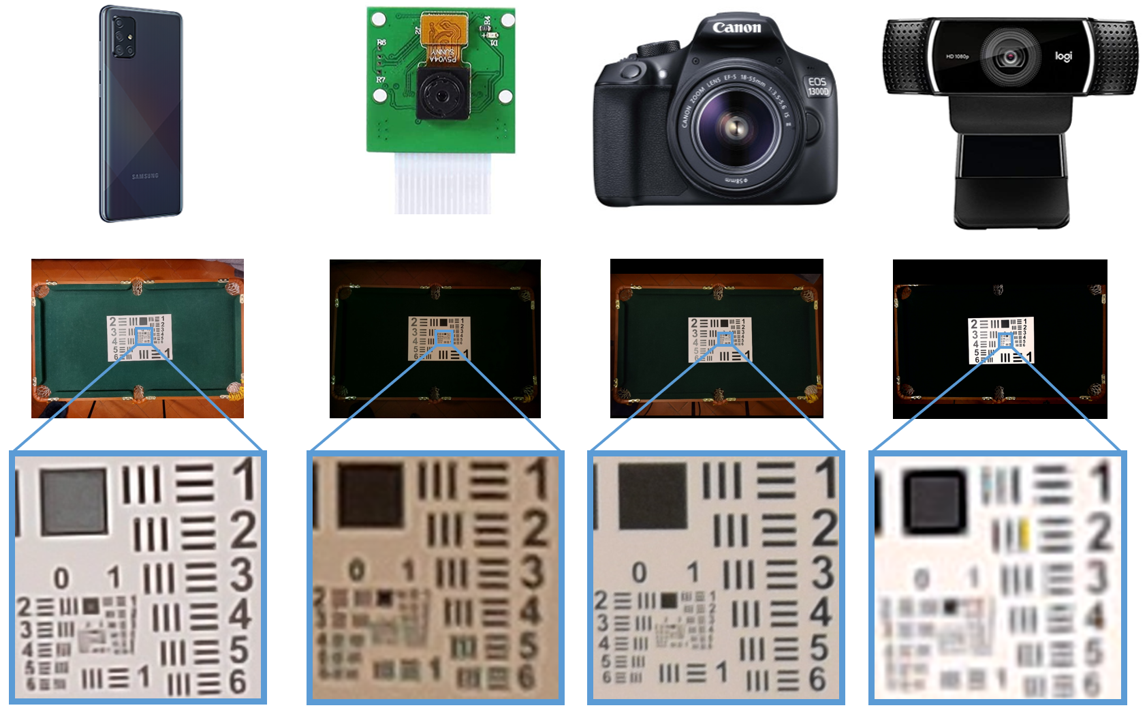
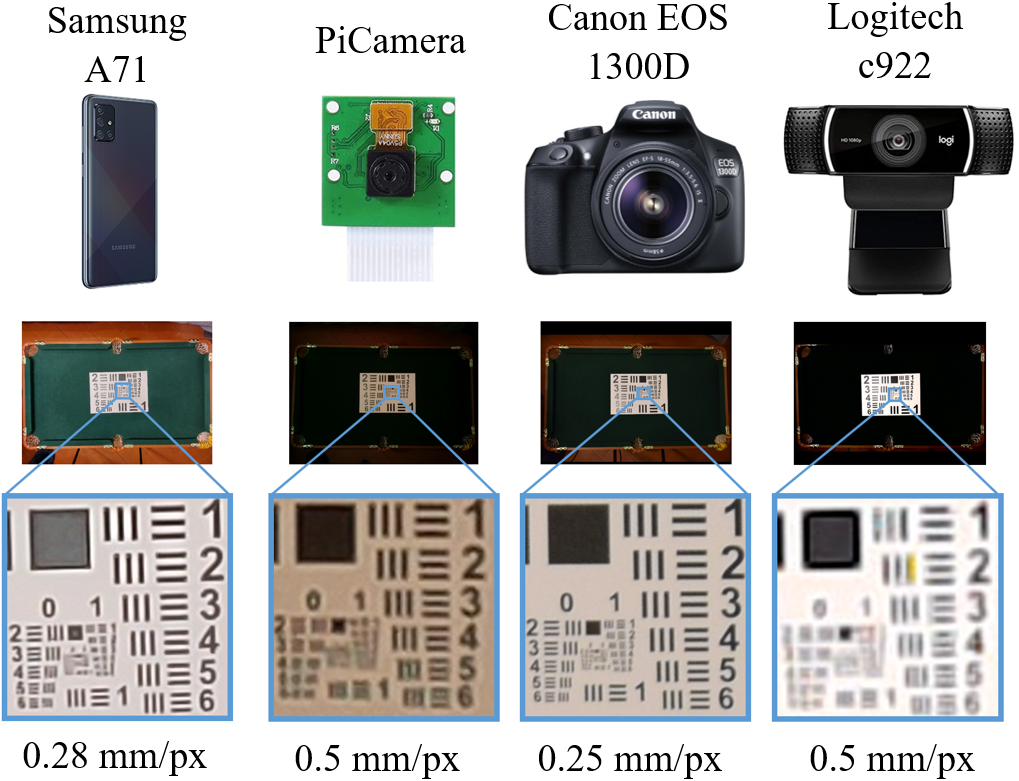
doc

diff --git a/README.md b/README.md
@@ -102,7 +102,39 @@ The hardware includes both the camera and its mounting support. The final setup 
 
 To select the right camera, I conducted a resolution test on four different cameras I had at home: a smartphone camera, a Raspberry Pi camera, a DSLR, and a webcam. Based on the results and ease of connectivity with a PC, the final selection was the DSLR camera:
 
-<img src="./figures/mm_per_pixel_2.png" alt="drawing" width="70%"/>
+
+<table>
+  <tr>
+    <th>Camera</th>
+    <td>Samsing A71</td>
+    <td>PiCamera</td>
+    <td>Canon EOS 1300D</td>
+    <td>Logitech c922</td>
+  </tr>
+
+  <tr>
+    <th>Resolution</th>
+    <td>0.28 mm/px</td>
+    <td>0.50 mm/px</td>
+    <td>0.25 mm/px</td>
+    <td>0.50 mm/px</td>
+  </tr>
+
+  <tr>
+    <th>USAF test</th>
+    <td><img src="./figures/mm_per_pixel_1.png" alt="drawing" width="90%"/>
+</td>
+    <td><img src="./figures/mm_per_pixel_2.png" alt="drawing" width="90%"/>
+</td>
+    <td><img src="./figures/mm_per_pixel_3.png" alt="drawing" width="100%"/>
+</td>
+    <td><img src="./figures/mm_per_pixel_4.png" alt="drawing" width="90%"/>
+</td>
+  </tr>
+
+</table>
+
+
 
 ### Software
 
@@ -125,7 +157,11 @@ To select the right camera, I conducted a resolution test on four different came
 
 - **Camera calibration**: Computes the intrinsic camera parameters using images of a checkerborad pattern.
 
-<img src="./figures/camera_calibration.png" alt="drawing" width="100%"/>
+
+| Image 1 | Image 2 | Image 3 | Image 4 |
+|:-----:|:-----:|:-----------------:|:-----------------:|
+| <img src="./figures/camera_calibration_1.png" alt="2 DOF" width="100%"/> | <img src="./figures/camera_calibration_2.png" alt="2 DOF" width="100%"/> | <img src="./figures/camera_calibration_3.png" alt="2 DOF" width="100%"/> | [...]
+
 
 #### YOLOv8
 
@@ -157,7 +193,7 @@ After comparing the results of both methods against a Ground Truth established b
 | YOLO    | 3.02     | 3.17     |
 | Classic    | 2.43     | 1.81     |
 
-If the 68–95–99.7 rule is applied, from these results it can be deduced that in 95% of the cases an error below 6.3 and 3.6 pixels should be expected for the YOLO and classic algorithms, respectively. 
+If the 68–95–99.7 rule is applied, from these results it can be deduced that in 95% of the cases an error below 6.3 and 3.6 pixels should be expected for the YOLO and classic algorithms, respectively. Considering a resolution of 0.25 mm/px, this is 1.5 and 0.9 mm, respectively.
 
 ## Shot selection 
 
@@ -201,34 +237,61 @@ $$
 
 ## Actuation system: 
 
-Pool robot subsystems
+The pool robot is divided in 2 subsystems:
 
-- Cue ball impact: linear actuator
+- **Cue ball impact**: linear actuator
    - Solenoid
    - Servomotor
-- Cue positioning: cartesian robot
+- **Cue positioning**: cartesian robot
    - Stepper motors
    - V-slot 2020 and wheels
    - Tooth belt and timing pulleys 
+
+Block diagram of the actuation system showing selected components and
+interactions:
 
 <img src="./figures/robot_solution.png" alt="drawing" width="90%"/>
 
 - **Homing position**: it's necessary to have a reference position known as home since the stepper motors do not have a way to know their position. This position has been obtained using two limit switches activated by the robot's own moving parts:
 
-<img src="./figures/homing_position.png" alt="drawing" width="70%"/>
+<table>
+  <tr>
+    <th>SolidWorks</th>
+    <th>Constructed</th>
+  </tr>
+  <tr>
+    <td rowspan="2"><img src="./figures/homing_position_1.png" alt="SolidWorks" width="100%"/>
+</td>
+    <td><img src="./figures/homing_position_2.png" alt="Constructed" width="100%"/></td>
+  </tr>
+  <tr>
+    <td><img src="./figures/homing_position_3.png" alt="Constructed" width="100%"/></td>
+  </tr>
+</table>
+
 
 - **Timing belt and pulleys**: the belt has been designed with an H configuration which has allowed the motors to be stationary
 
-<img src="./figures/timing_belt_and_pulleys.png" alt="drawing" width="60%"/>
+<table>
+  <tr>
+    <th>Concept design H-bot</th>
+    <th>Constructed</th>
+  </tr>
+  <tr>
+    <td rowspan="2"><img src="./figures/timing_belt_and_pulleys_1.png" alt="SolidWorks" width="100%"/>
+</td>
+    <td><img src="./figures/timing_belt_and_pulleys_2.png" alt="Constructed" width="100%"/></td>
+  </tr>
+  <tr>
+    <td><img src="./figures/timing_belt_and_pulleys_3.png" alt="Constructed" width="100%"/></td>
+  </tr>
+</table>
 
-- **Belt tensioning**: a set of pulleys was assembled and the belt was tensioned with zip ties
+- **Belt tensioning and stepper sizing**: a set of pulleys was assembled and the belt was tensioned with zip ties. To achieve this the motors were sized with a calculation of the required torque, considering the accelaration and load terms, and a safety factor
 
-<img src="./figures/belt_tensioning.png" alt="drawing" width="50%"/>
-
-- **Stepper sizing**: the motors were sized with a calculation of the required torque, considering the accelaration and load terms, and a safety factor
-
-<img src="./figures/stepper_sizing.png" alt="drawing" width="20%"/>
-
+| Belt tensioning | Stepper mount |
+|----------|--------------|
+| <img src="./figures/belt_tensioning.png" alt="Before" width="100%"/> | <img src="./figures/stepper_sizing.png" alt="After" width="73%"/> |
 
 ### Fliper design:
 
@@ -254,28 +317,31 @@ Stroke                       |            Spring
 
 ### Flipper parts:
 
-- **Linkage kinematics simulation**: Find key dimensions given constraints 
+- **Linkage kinematics simulation**: to obtain the dimensions of the mechanism, its kinematics have been simulated for many possible configurations, and the one that met a series of requirements was selected. For example, ensuring that the flipper, when retracted, does not collide with any balls that might be on the table.
 
-- **Flipper assembly**: 3D printed support for axis alignment and welding process 
+- **Flipper assembly**: to secure the wooden flipper to the steel shaft, Araldite was used, while the shaft was joined to the metal part through welding. 
 
+Flipper assembly           |            Flipper parts
+:-------------------------:|:-------------------------:
+<img src="./figures/flipper_1.png" alt="drawing" width="92%"/>|  <img src="./figures/flipper_2.png" alt="drawing" width="100%"/>
 
 
 ### Control and communications: 
 
-- Stepper motor
+- **Stepper motor**:
    - Accelstepper library
    - Pulse control: steps and direction
    - Stepper driver: DRV8825
    
-- Servomotor
+- **Servomotor**:
    - Dynamixel library: address writing 
    - Trapezoidal velocity profile
    - PID angular position
 
-- Solenoid
+- **Solenoid**:
    - Logic MOSFET circuit
 
-- PC interface
+- **PC interface**:
    - Arduino: serial communication 
    - USB communication converter 
 
@@ -288,7 +354,21 @@ SolidWorks                      |            Constructed
 :-------------------------:|:-------------------------:
 <img src="./figures/final_assembly_1.png" alt="drawing" width="100%"/>|  <img src="./figures/final_assembly_2.png" alt="drawing" width="100%"/>
 
-### System integration
+## System integration
+
+Find relationship between:
+
+- Outputs from the vision system: cue ball pixel coordinates `uc`, `vc`
+- Outputs from the shot selection algorithm: cue ball trajectory angle &theta;
+- Commands to be sent to the robot's actuators: `q1`, `q2`, `q3`
+
+
+Initially, it was necessary to study the kinematics of the Cartesian robot, observing the relationship between the motors' rotational movement and the linear displacement of the carriage. Then, by using a piece of cardboard and a marker, the relationship between the motor steps and the centimeters moved was determined.
+
+Secondly, the movement required to position the flipper beneath the white ball was analyzed, taking into account the offset with the axis of rotation. It was deduced that the white ball's position in pixels, and the cosine and sine of the flipper's angle, have a linear relationship with the steps of the motors. However, the angle of the flipper matches the position to which we need to move the servo motor.
+
+
+## Results
 
 TODO
 
@@ -301,12 +381,8 @@ TODO
     ```python
    import numpy as np
    import tensorflow as tf
-   from keras.preprocessing.sequence import TimeseriesGenerator
-   from hvac_control.data import load_data
-   from hvac_control.preprocessing import std_scaler_given_parameters
 
-   data_to_load = "gaia_data_1.csv" # larger dataset
-   data = load_data(data_to_load, data_type='processed')
+   test = 0
     ```
 
 </details>
